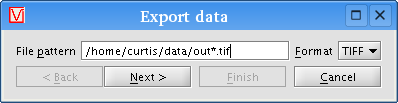
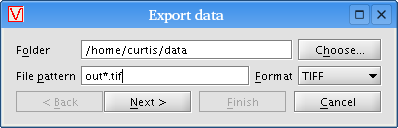
*** empty log message ***

diff --git a/loci/visbio/help/export_imagej.html b/loci/visbio/help/export_imagej.html
@@ -1,0 +1,28 @@
+<html><body><h2>Exporting data directly to ImageJ</h2>
+
+<p>VisBio can export data directly to ImageJ for further analysis. To export
+the current data object, click the "Export &gt;" button on the
+<a href="data.html">Data panel</a>, then choose "Send to ImageJ..." from the
+popup menu. If the current data object contains at least one dimensional axis,
+a dialog box titled "Send data to ImageJ" will appear:
+
+<p><img src="export-imagej.png" alt="Send to ImageJ dialog">
+
+<p>Choose the dimensional position of the image you wish to send to ImageJ.
+You can send a stack of images all at once by choosing a stack axis from the
+dropdown combo box.
+
+<p>Click the "Ok" button and VisBio will begin exporting your data to ImageJ.
+
+<br><h3>See also:</h3>
+
+<ul>
+  <li><a href="import_data.html">Importing a dataset from disk</a>
+    - to load a dataset into VisBio</li>
+  <li><a href="add_data.html">Adding a data object</a>
+    - to create derivative data objects</li>
+  <li><a href="data_panel.html">Data panel</a>
+    - controls for managing data</li>
+</ul>
+
+<p>&nbsp;<p></body></html>

diff --git a/loci/visbio/help/export_data.html b/loci/visbio/help/export_data.html
@@ -4,15 +4,18 @@
 data object, click the "Export &gt;" button on the
 <a href="data.html">Data panel</a>, then choose "Save to disk..." from the
 popup menu (or choose "Export data..." from the File menu). A dialog box titled
-appear "Export data" will appear:
+"Export data" will appear:
 
 <p><img src="export-dialog1.png" alt="Export dialog, page 1">
 
+<p>Select the folder where the exported data should be stored by clicking the
+"Choose..." button.
+
 <p>Enter the file pattern that defines how your files will be named. Place
 asterisks (*) where the file numbering should occur. In the example above, the
-pattern indicates that the data will be numbered /home/curtis/data/out1.tif
-through /home/curtis/data/outX.tif, where X is the maximum value of the
-numbering's associated dimensional axis (e.g., time points).
+pattern indicates that the data will be numbered out1.tif through outX.tif,
+where X is the maximum value of the numbering's associated dimensional axis
+(e.g., time points).
 
 <p>Also, choose the appropriate output format from the dropdown list box on the
 right.
